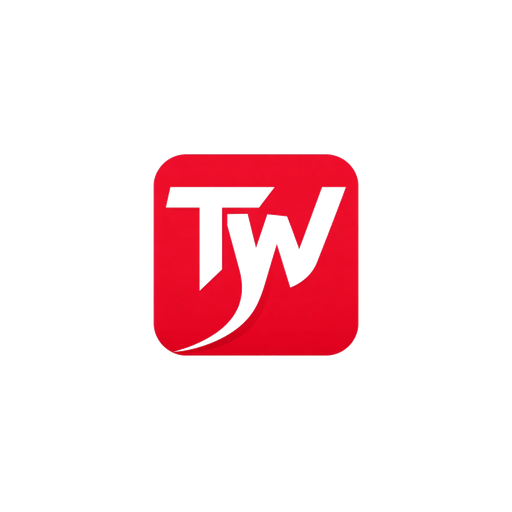
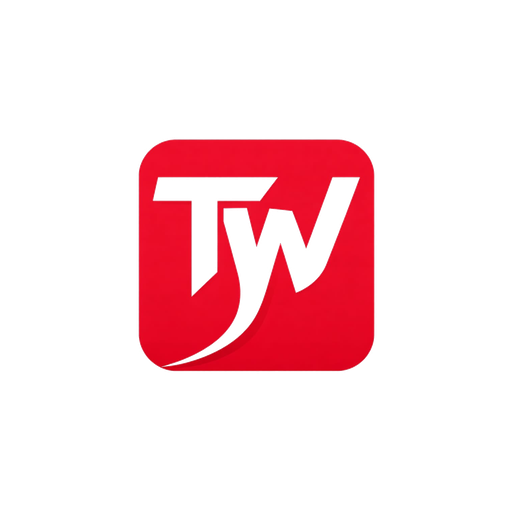
feat: implement PWA configuration with manifest and splash screen component

Changed region(s): [[0.25, 0.25, 0.75, 0.75]]

diff --git a/src/app/layout.js b/src/app/layout.js
@@ -226,6 +226,9 @@ export default function RootLayout({ children }) {
         <meta name="application-name" content="TexWeb Solution" />
         <meta property="og:site_name" content="TexWeb Solution" />
         <meta name="apple-mobile-web-app-title" content="TexWeb Solution" />
+        <meta name="apple-mobile-web-app-capable" content="yes" />
+        <meta name="mobile-web-app-capable" content="yes" />
+        <meta name="apple-mobile-web-app-status-bar-style" content="default" />
         <meta name="theme-color" content="#ffffff" />
         <script
           type="application/ld+json"
@@ -293,4 +296,3 @@ export default function RootLayout({ children }) {
     </html>
   );
 }
-

diff --git a/src/components/AppSplashScreen.jsx b/src/components/AppSplashScreen.jsx
@@ -48,7 +48,7 @@ export default function AppSplashScreen() {
           <img
             src="/logo.png"
             alt="TexWeb Solution"
-            className="w-24 h-24 sm:w-28 sm:h-28 rounded-3xl object-contain shadow-2xl shadow-red-600/20"
+            className="w-28 h-28 sm:w-32 sm:h-32 rounded-3xl object-contain shadow-2xl shadow-red-600/20"
           />
         </div>
 

diff --git a/src/app/manifest.js b/src/app/manifest.js
@@ -7,7 +7,7 @@ export default function manifest() {
     id: '/',
     scope: '/',
     display: 'standalone',
-    display_override: ['tabbed', 'window-controls-overlay', 'standalone', 'minimal-ui', 'browser'],
+    display_override: ['standalone', 'fullscreen'],
     orientation: 'portrait-primary',
     dir: 'ltr',
     lang: 'en-IN',
